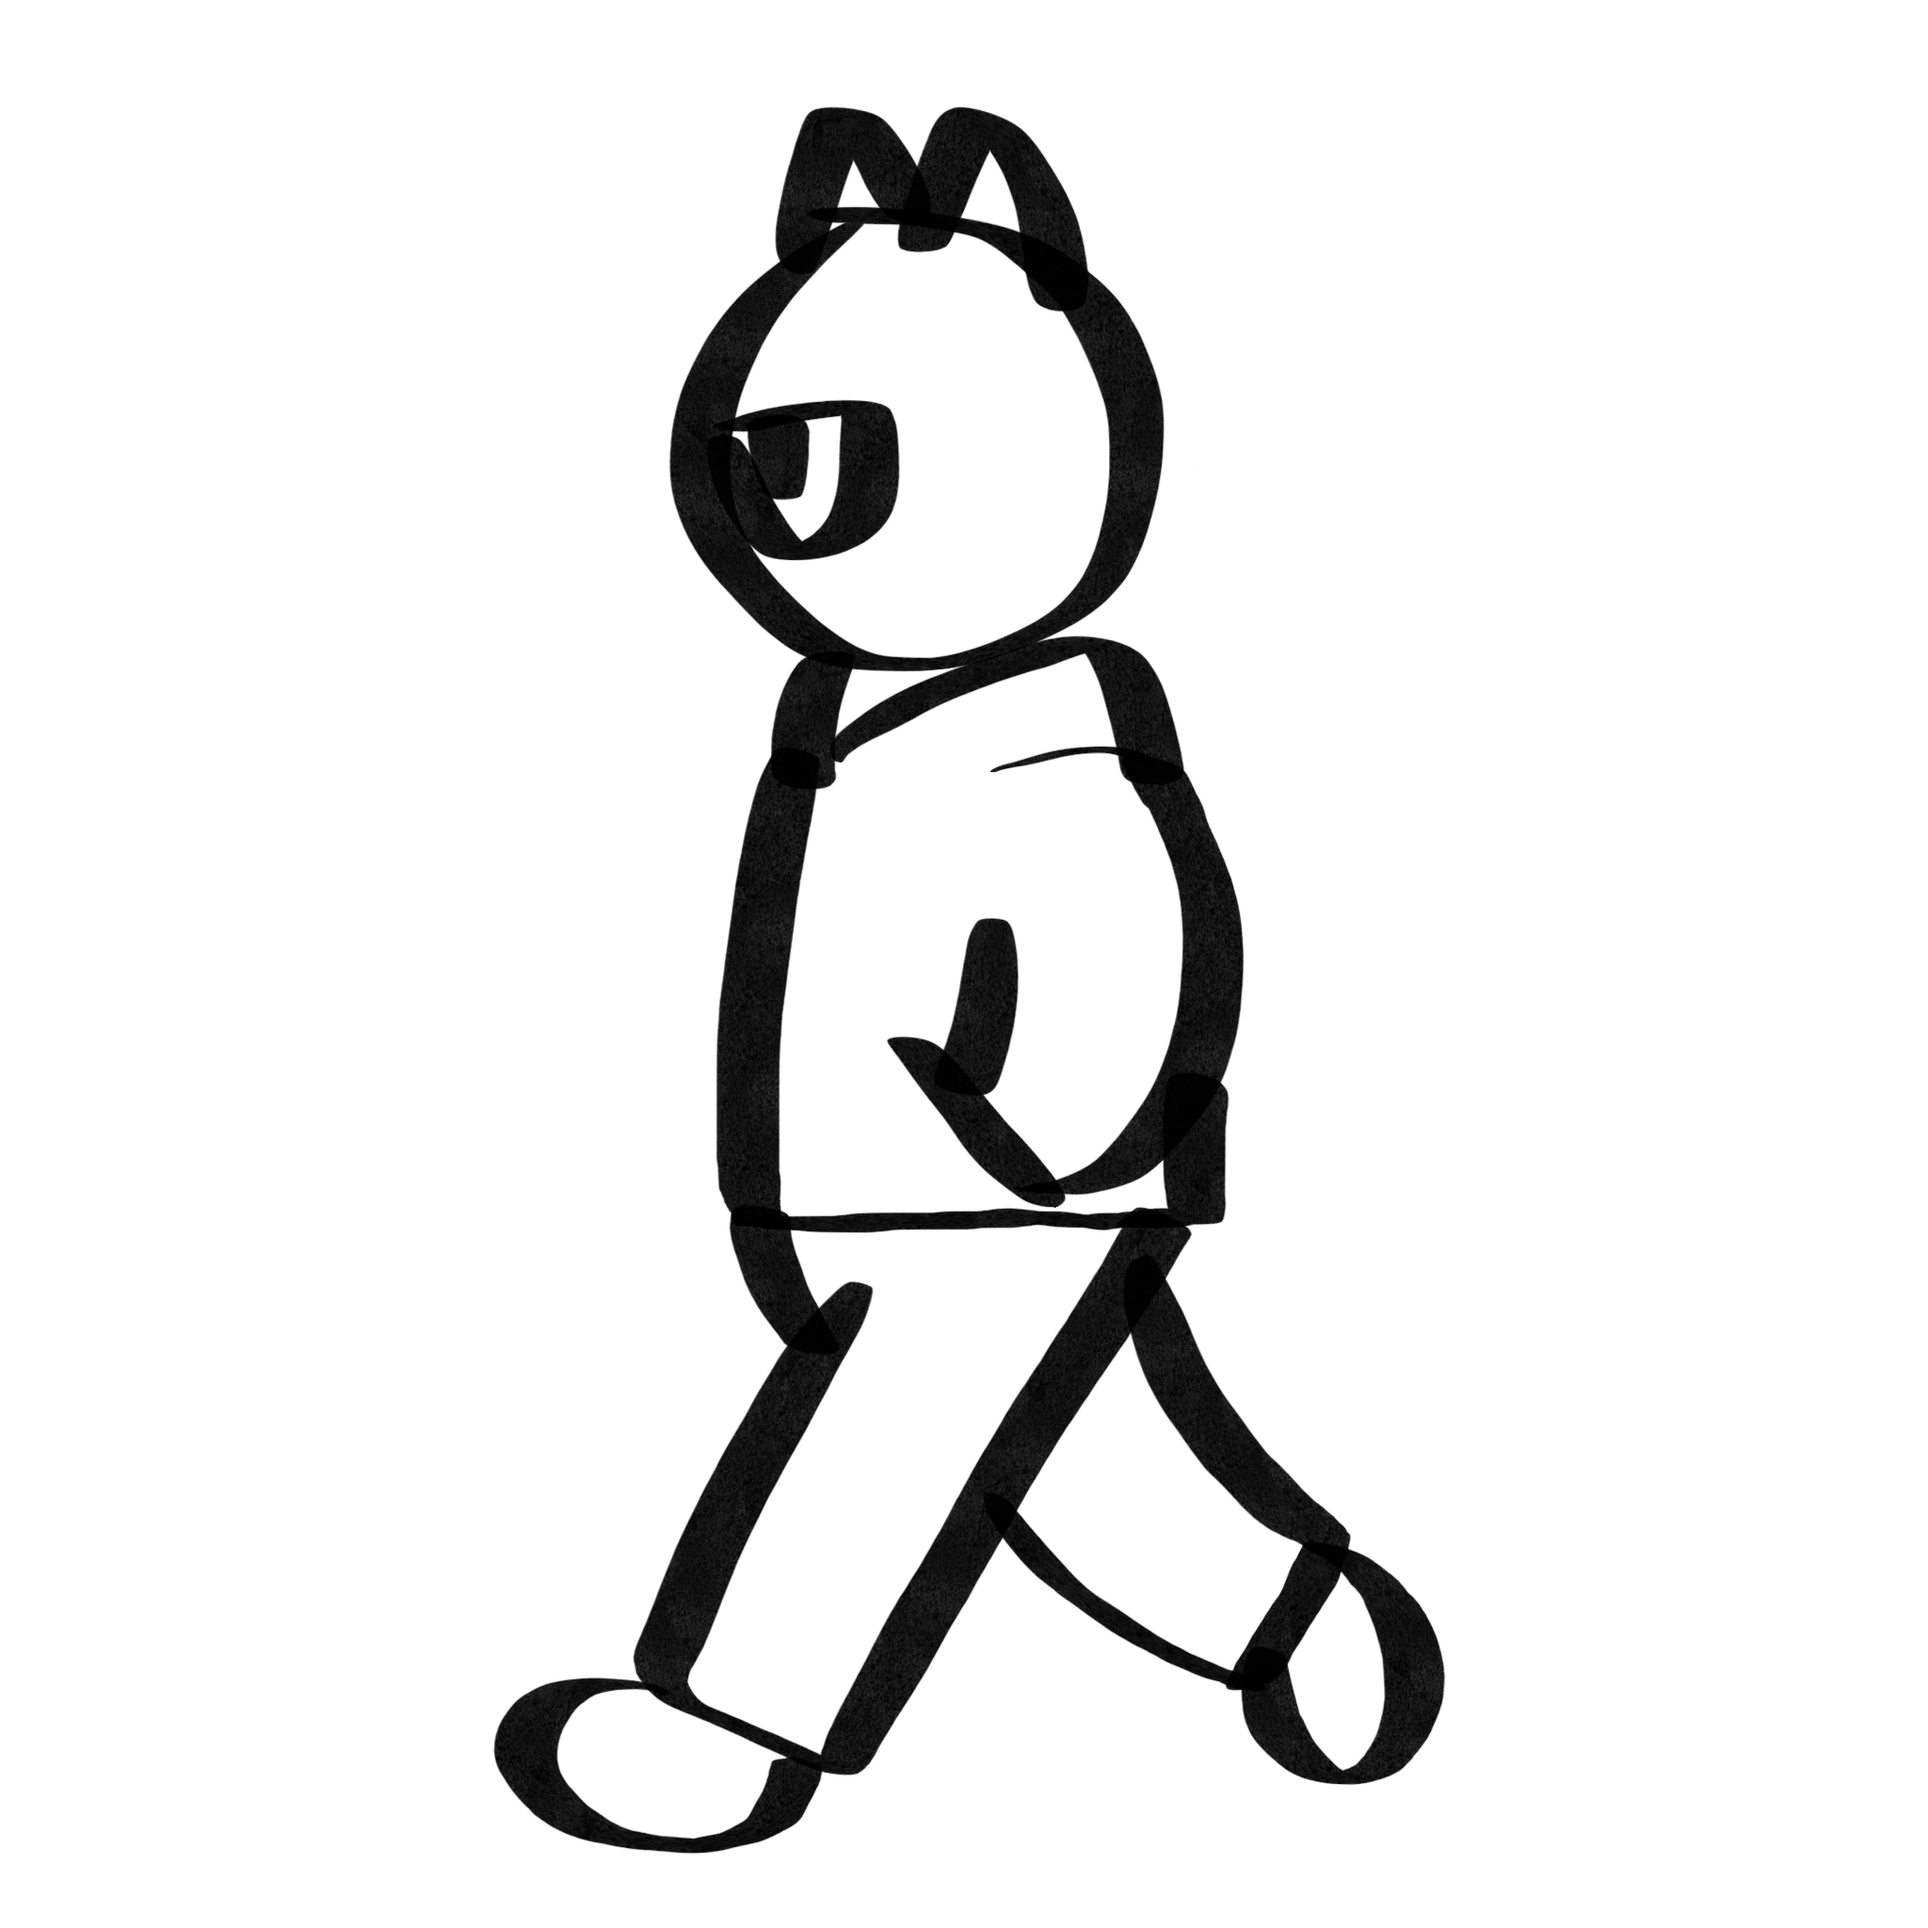
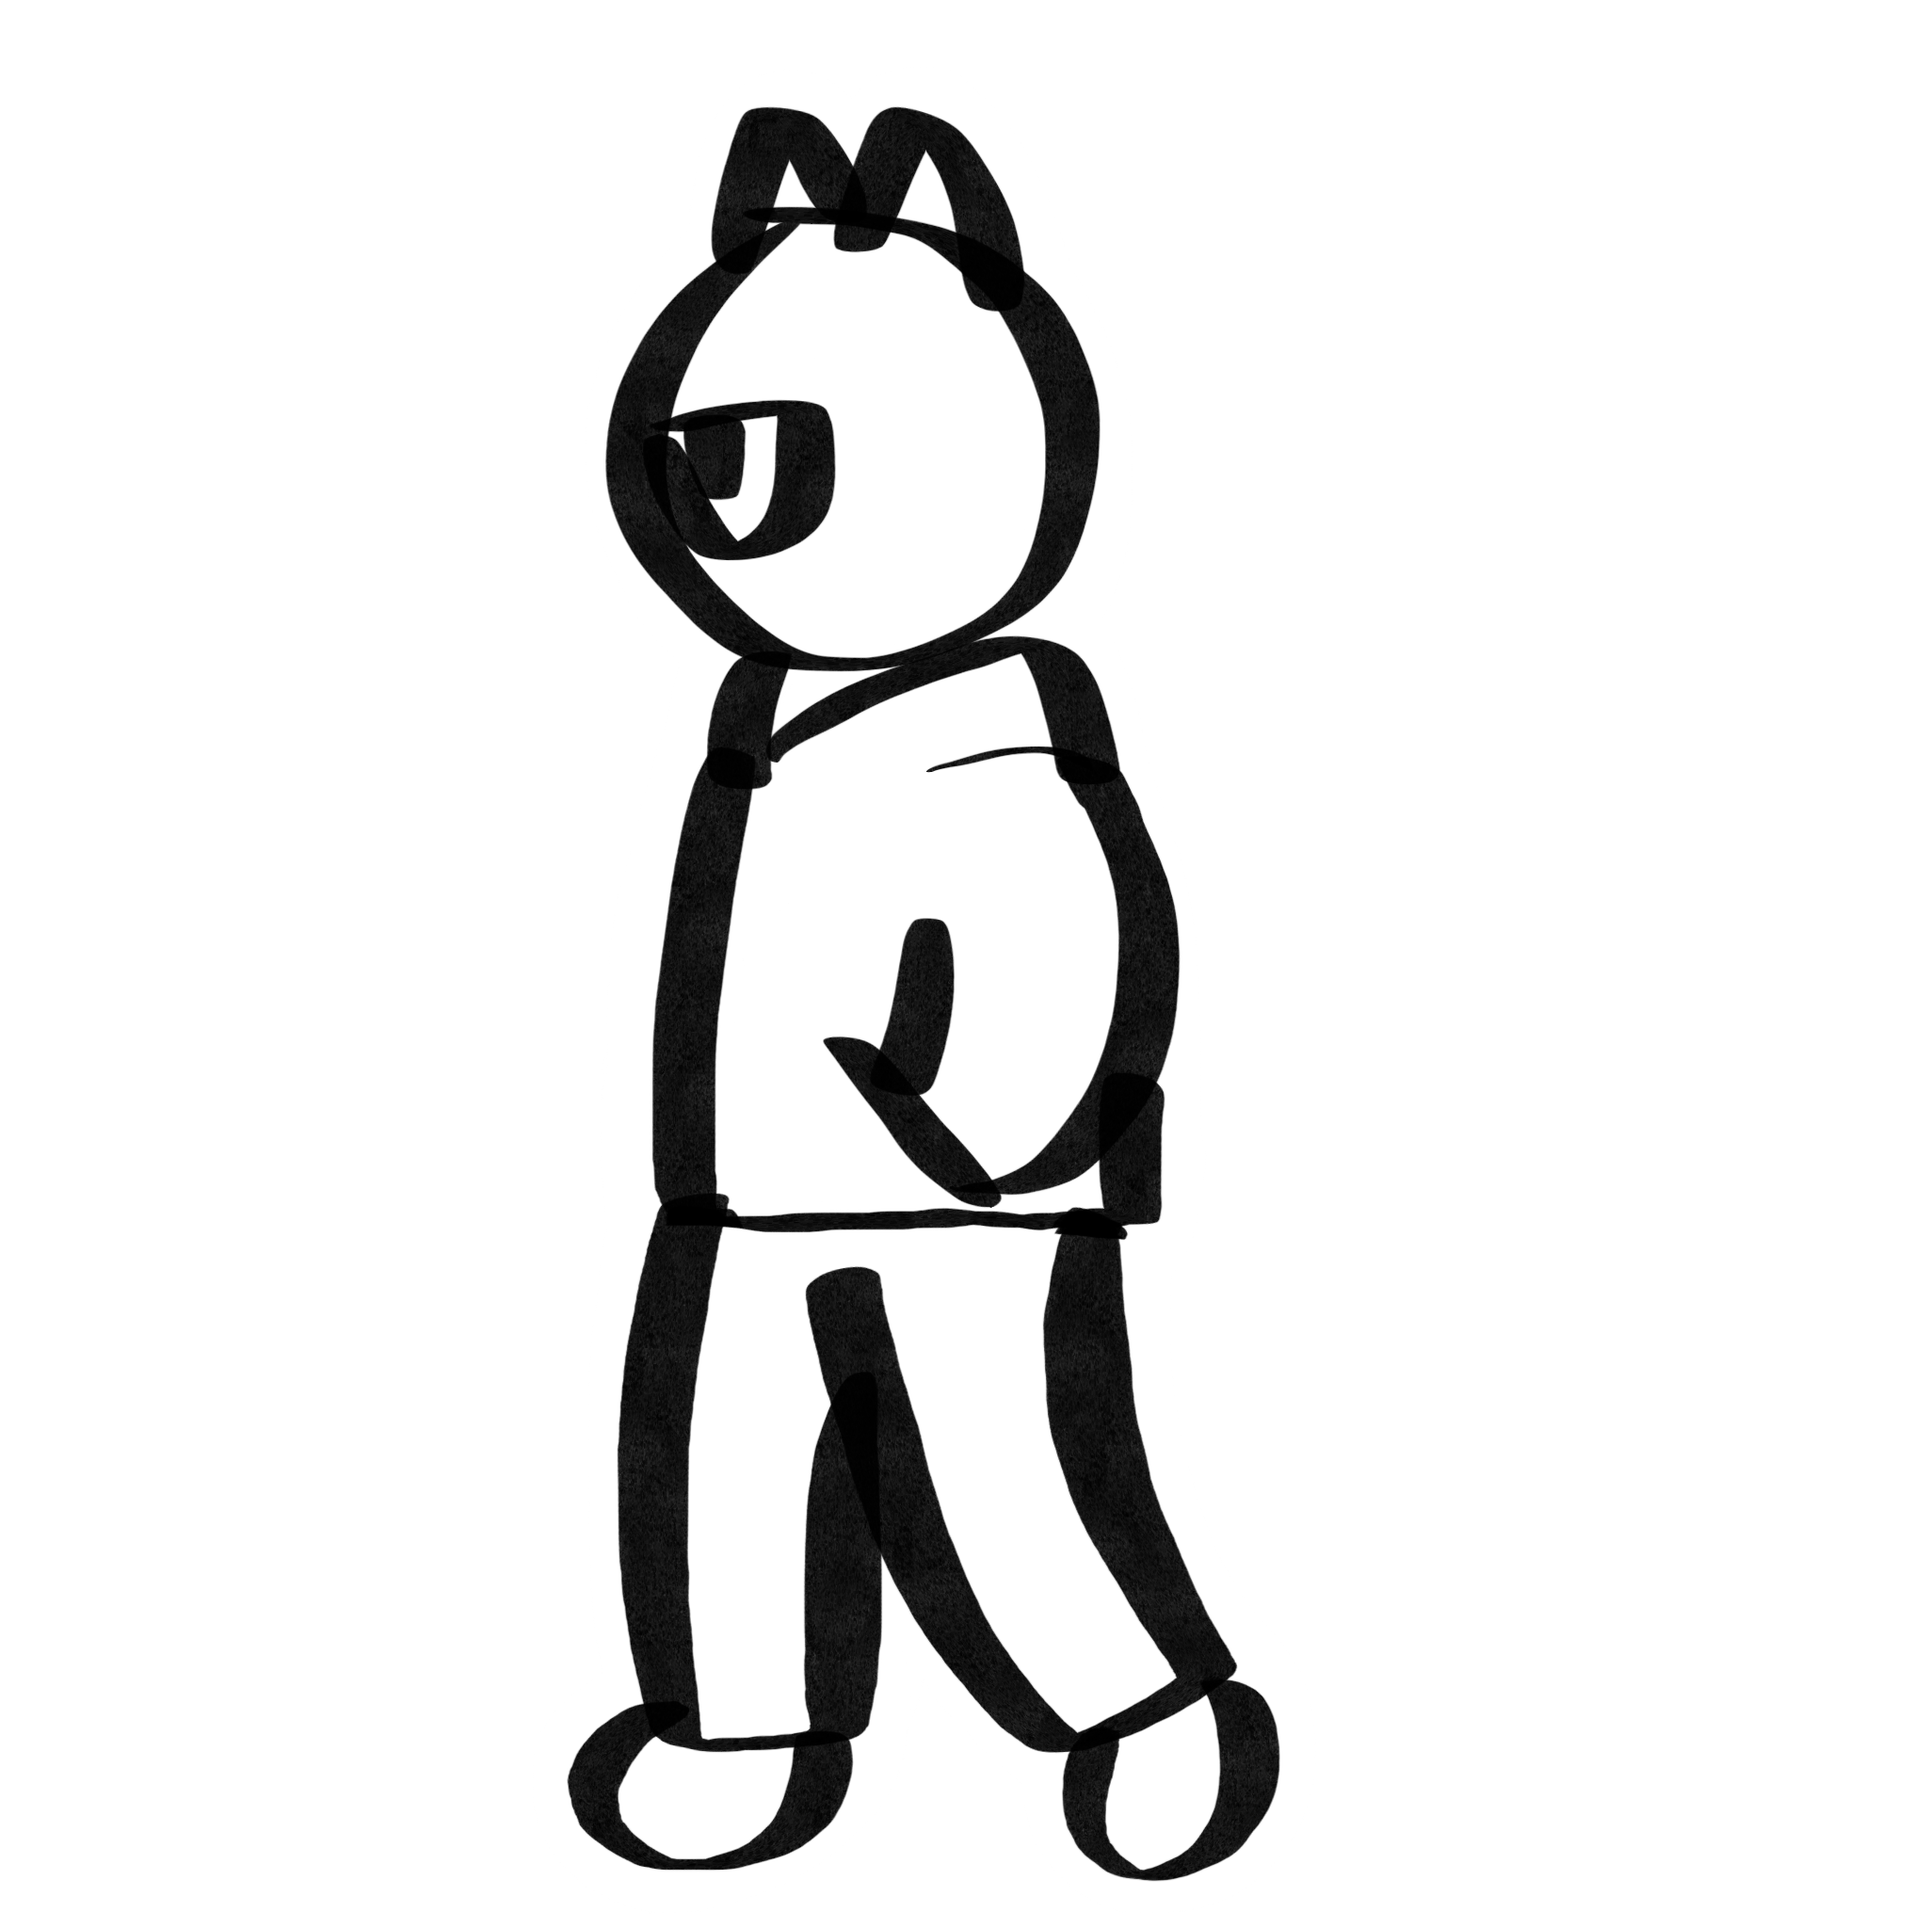
4 frame walking animation working

Changed region(s): [[0.25, 0.0312, 0.75, 1.0]]

diff --git a/src/panels/Spott.java b/src/panels/Spott.java
@@ -16,13 +16,26 @@ public class Spott {
 
     MainPanel mainPanel;
 
+    // current Spott image
     Image spott;
+
+    // forward facing Spott
     Image defaultSpott;
-    Image leftSpott1;
-    Image leftSpott2;
-    Image rightSpott1;
-    Image rightSpott2;
-    Image cheersSpott;
+
+    // 4 frame animation: walking right
+    Image right1;
+    Image right2;
+    Image right3;
+    Image right4;
+
+    // 4 frame animation: walking left
+    Image left1;
+    Image left2;
+    Image left3;
+    Image left4;
+
+    // celebration Spott
+    Image cheers;
 
     int timeOnFrame = 0; // amount of time that has been spent on Image spott
     int timePaused = 0; // amount of time that Spott has stopped for
@@ -36,19 +49,32 @@ public class Spott {
         velocity = new Pair(400, 0);
         size = 270;
 
-        // different from draw() in Pong.java because we're importing graphics
-        // importing default image once because spott is created once
         try{
             defaultSpott = ImageIO.read(new File("./resources/images/spott/default.png"));
-            leftSpott1 = ImageIO.read(new File("./resources/images/spott/left1.png"));
-            leftSpott2 = ImageIO.read(new File("./resources/images/spott/left2.png"));
-            rightSpott1 = ImageIO.read(new File("./resources/images/spott/right1.png"));
-            rightSpott2 = ImageIO.read(new File("./resources/images/spott/right2.png"));
-            //cheersSpott = ImageIO.read(new File("./resources/images/cheers_spott.png"));
+
+            right1 = ImageIO.read(new File("./resources/images/spott/right1.png"));
+            right2 = ImageIO.read(new File("./resources/images/spott/right2.png"));
+            right3 = ImageIO.read(new File("./resources/images/spott/right3.png"));
+            right4 = ImageIO.read(new File("./resources/images/spott/right4.png"));
+
+            left1 = ImageIO.read(new File("./resources/images/spott/left1.png"));
+            left2 = ImageIO.read(new File("./resources/images/spott/left2.png"));
+            left3 = ImageIO.read(new File("./resources/images/spott/left3.png"));
+            left4 = ImageIO.read(new File("./resources/images/spott/left4.png"));
+
+            //cheersSpott = ImageIO.read(new File("./resources/images/cheers.png"));
         }
         catch(Exception e){System.out.println("Error with Spott: " + e);}
 
         this.spott = defaultSpott;
+    }
+
+    public int getHeight() {
+        return size;
+    }
+
+    public void setLocation(int x, int y) {
+        position = new Pair(x, y);
     }
 
     // sole function is to draw Spott
@@ -57,57 +83,7 @@ public class Spott {
         g.drawImage(spott, (int) position.x, this.mainPanel.getHeight() - size, size, size, null);
     }
 
-    // setting the right image for Spott at the time the method is called --> gives draw() the correct image to draw
-    private void switchFrame()
-    {
-        if(velocity.x == 0) {
-            spott = defaultSpott;
-        }
-        else
-        {
-            // when Spott starts moving from a stopped position
-            if(spott.equals(defaultSpott))
-            {
-                if(velocity.x > 0)
-                {
-                    spott = rightSpott1;
-                    state = 1;
-                }
-                else // if velocity.x < 0
-                {
-                    spott = leftSpott1;
-                    state = -1;
-                }
-            }
-            if(timeOnFrame == 25) // "every 25 frames"
-            {
-                if(spott == leftSpott1)
-                {
-                    spott = leftSpott2;
-                }
-                else if(spott == leftSpott2)
-                {
-                    spott = leftSpott1;
-                }
-                else if(spott == rightSpott1)
-                {
-                    spott = rightSpott2;
-                }
-                else if(spott == rightSpott2)
-                {
-                    spott = rightSpott1;
-                }
-                timeOnFrame = 0; // resetting timeOnFrame once frame is switched
-            }
-            else
-            {
-                timeOnFrame++; // incrementing timeOnFrame --> eventually reaches 50 and switces frame
-            }
-        }
-    }
-   
     // default roaming around the screen
-    // note to Serin: update() is repeatedly called by actionPerformed() in MainPanel.java
     public void update(double time)
     {
         i++;
@@ -115,10 +91,105 @@ public class Spott {
         position.x += velocity.x * t;
         position.y += velocity.y * t;
         switchFrame();
-        turnAround(); // if Spott has reached a wall, turn around
-        pause(); // Spott pauses at random intervals
+        turnAround(); 
+        pause();
+    }
+    // note to Serin: update() is repeatedly called by actionPerformed() in MainPanel.java
+
+    // setting the right image for Spott at the time the method is called --> gives draw() the correct image to draw
+    private void switchFrame()
+    {
+        // if Spott is stopped, set image to default image
+        if(velocity.x == 0)
+        {
+            spott = defaultSpott;
+        }
+        else // if Spott is moving...
+        {
+            // when Spott starts moving from a stopped position
+            if(spott.equals(defaultSpott))
+            {
+                if(velocity.x > 0)
+                {
+                    spott = right1;
+                    state = 1;
+                }
+                else // if velocity.x < 0
+                {
+                    spott = left1;
+                    state = -1;
+                }
+            }
+            if(timeOnFrame == 25) // "every x number of frames"
+            {
+                // 4 frame walking animation: left
+                if(spott == left1)
+                {
+                    spott = left2;
+                }
+                else if(spott == left2)
+                {
+                    spott = left3;
+                }
+                else if(spott == left3)
+                {
+                    spott = left4;
+                }
+                else if(spott == left4)
+                {
+                    spott = left1;
+                }
+
+                // 4 frame walking animation: right
+                if(spott == right1)
+                {
+                    spott = right2;
+                }
+                else if(spott == right2)
+                {
+                    spott = right3;
+                }
+                else if(spott == right3)
+                {
+                    spott = right4;
+                }
+                else if(spott == right4)
+                {
+                    spott = right1;
+                }
+
+                // reset timeOnFrame once frame is switched
+                timeOnFrame = 0;
+            }
+            else
+            {
+                timeOnFrame++; // incrementing timeOnFrame --> eventually reaches end and switces frame
+            }
+        }
     }
 
+    // if Spott has reached a wall, turn around
+    private void turnAround()
+    {
+        if((position.x < 0) || (position.x + size > mainPanel.getWidth()))
+        {
+            // velocity.flipX();
+            if(velocity.x > 0)
+            {
+                state = -1;
+                velocity.x = -400;
+                spott = left1; // resetting the frame so that switchFrame() works properly
+            }
+            else if(velocity.x < 0)
+            {
+                state = 1;
+                velocity.x = 400;
+                spott = right1;
+            }
+        }
+    }
+
+    // Spott pauses at random intervals
     private void pause()
     {
         if(i % 300 == 0)
@@ -136,72 +207,13 @@ public class Spott {
                 velocity.x = -400;
             }
         }
-
-        /*
-        int checker = (int)(Math.random() * 10); // randomized number to decide whether Spott stops
-
-        // pause when i / 300 is proportional to randomized checker
-        if(i % 10 == checker)
-        {
-            velocity.x = 0;
-            timePaused = 0;
-        }
-
-        // resume when timePaused is equal to randomized checker
-        else if(timePaused == checker)
-        {
-            if(state == 1)
-            {
-                velocity.x = 50;
-            }
-            else if(state == -1)
-            {
-                velocity.x = -50;
-            }
-        }
-        
-        // increment timePaused while paused
-        while(velocity.x == 0)
-        {
-            timePaused++;
-        }
-        */
     }
 
     // task accomplished --> excited animation
     public void cheers(Graphics g)
     {
-        spott = cheersSpott;
+        spott = cheers;
         g.drawImage(spott, (int) position.x, this.mainPanel.getHeight() - size, size, size, null);
-    }
-
-    // turning around upon reaching the wall
-    private void turnAround()
-    {
-        if((position.x < 0) || (position.x + size > mainPanel.getWidth()))
-        {
-            // velocity.flipX();
-            if(velocity.x > 0)
-            {
-                state = -1;
-                velocity.x = -400;
-                spott = leftSpott1;
-            }
-            else if(velocity.x < 0)
-            {
-                state = 1;
-                velocity.x = 400;
-                spott = rightSpott1;
-            }
-        }
-    }
-
-    public int getHeight() {
-        return size;
-    }
-
-    public void setLocation(int x, int y) {
-        position = new Pair(x, y);
     }
 }
 
